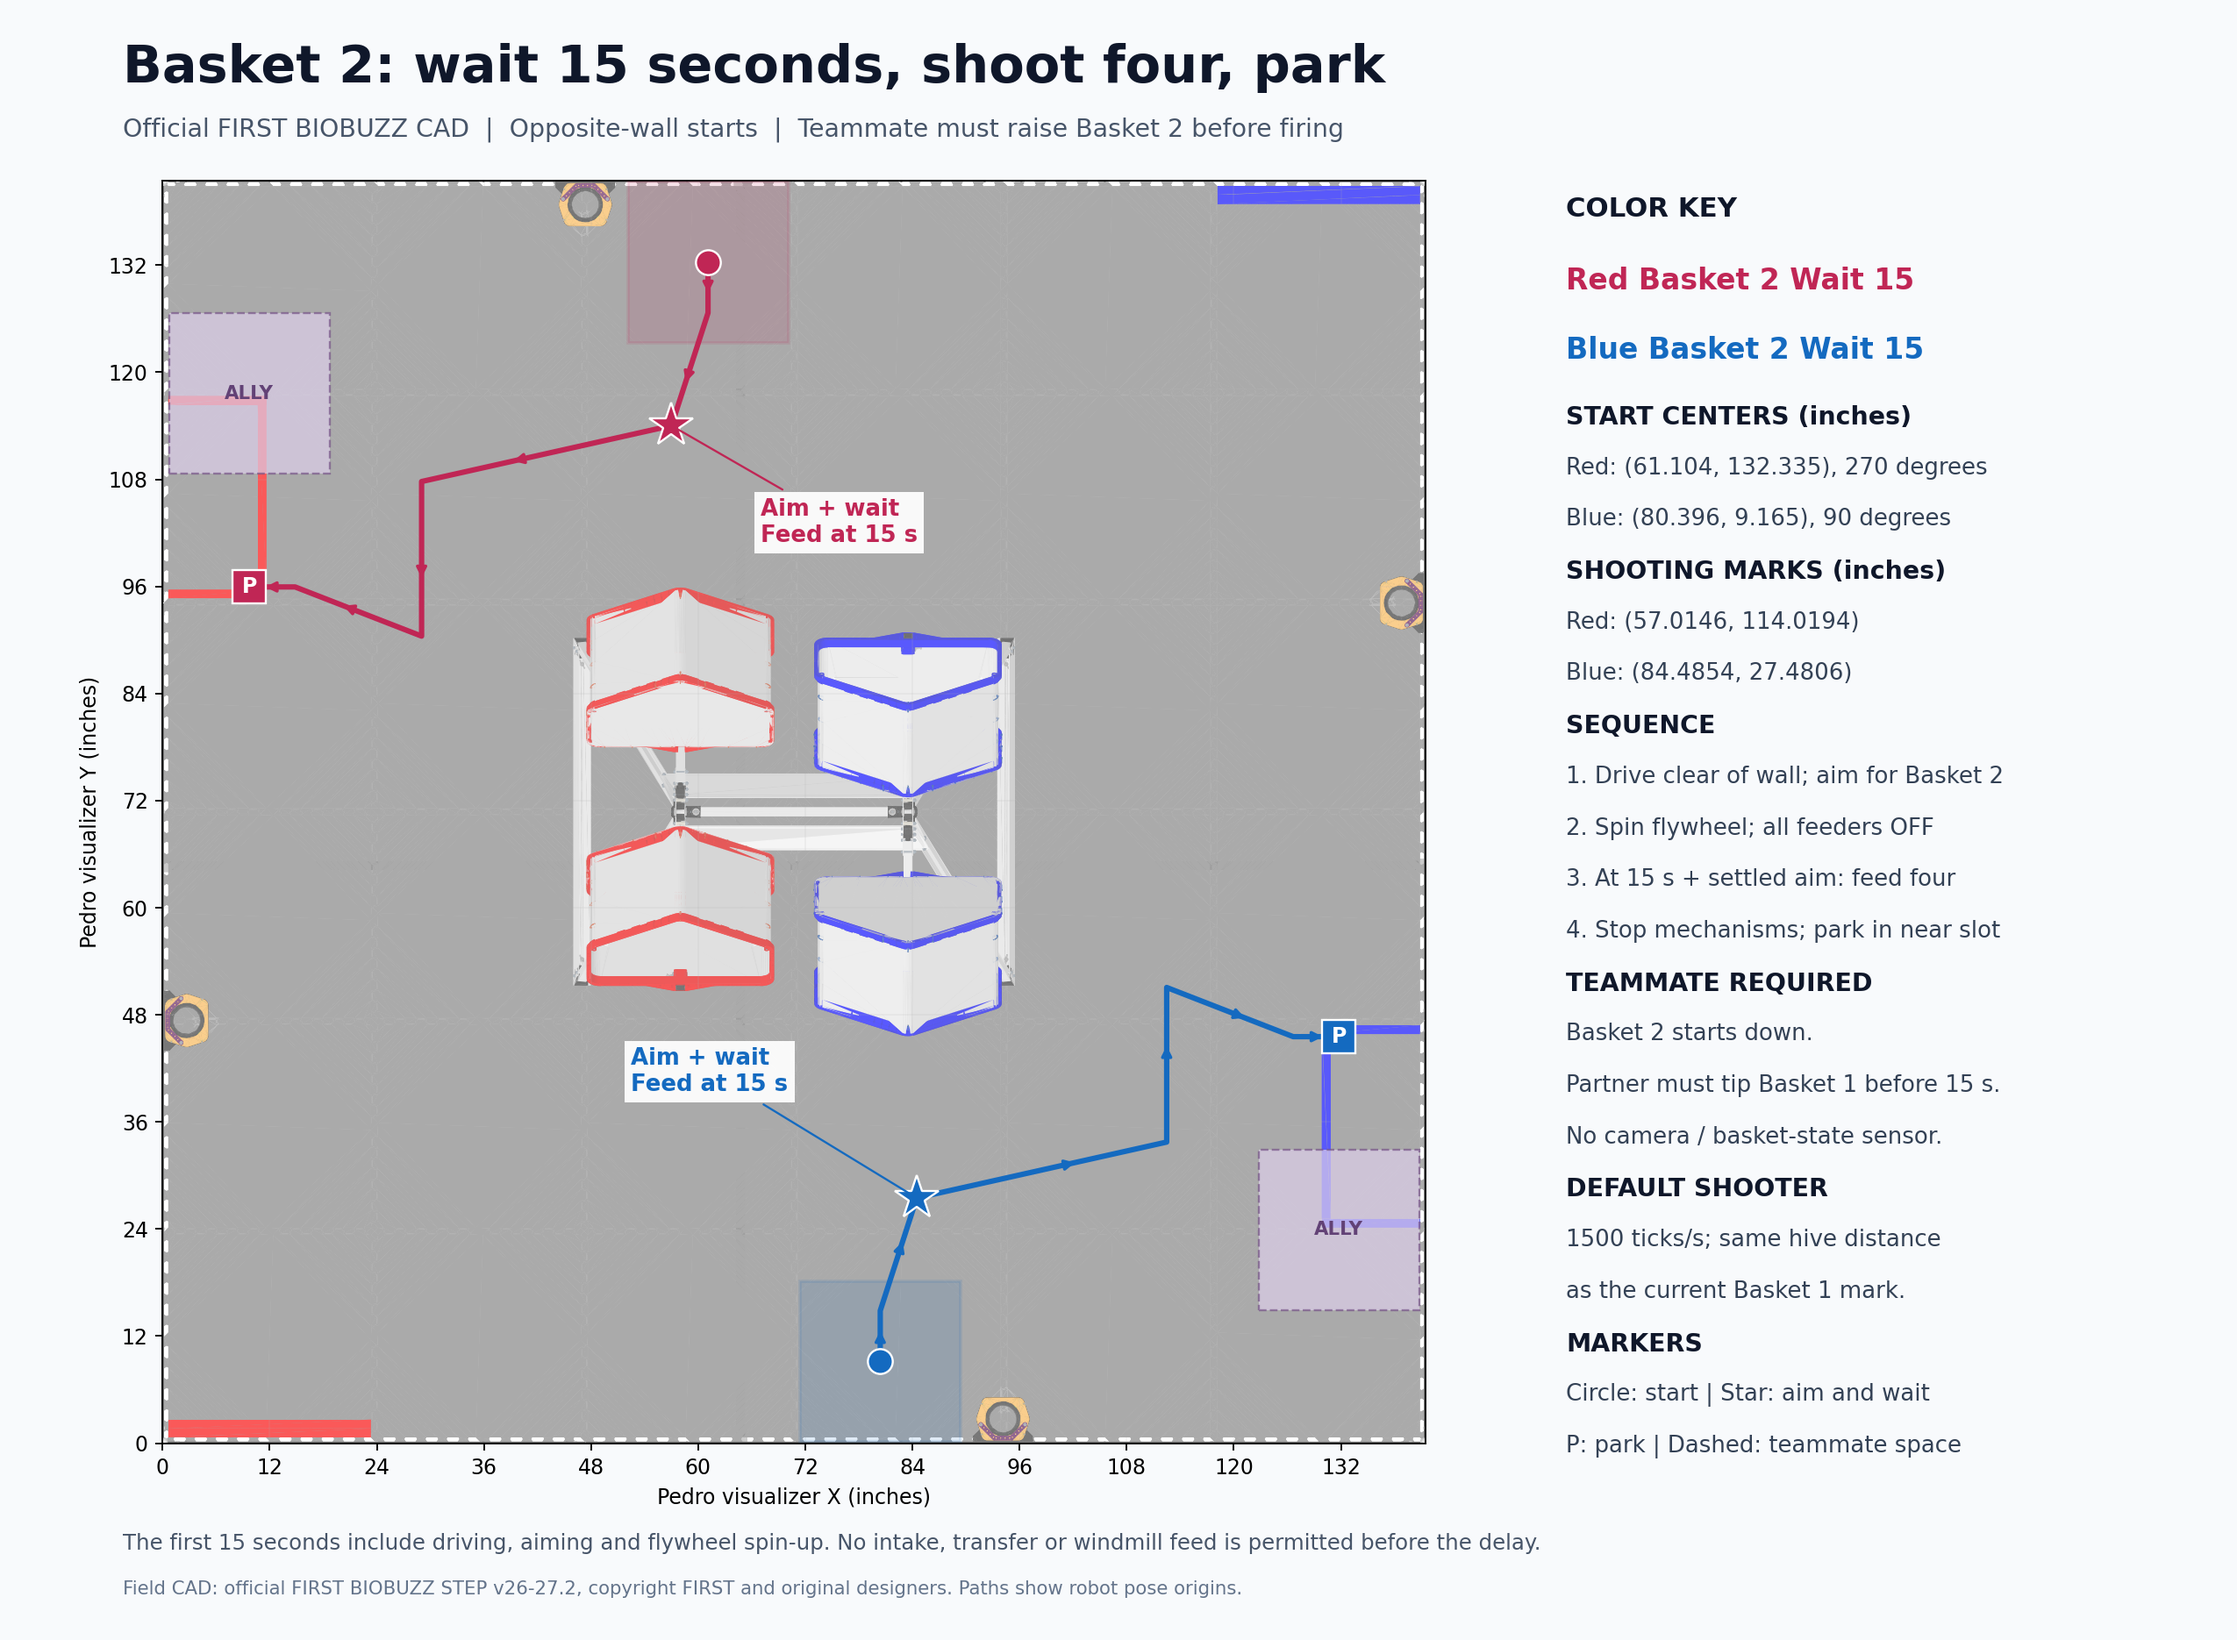
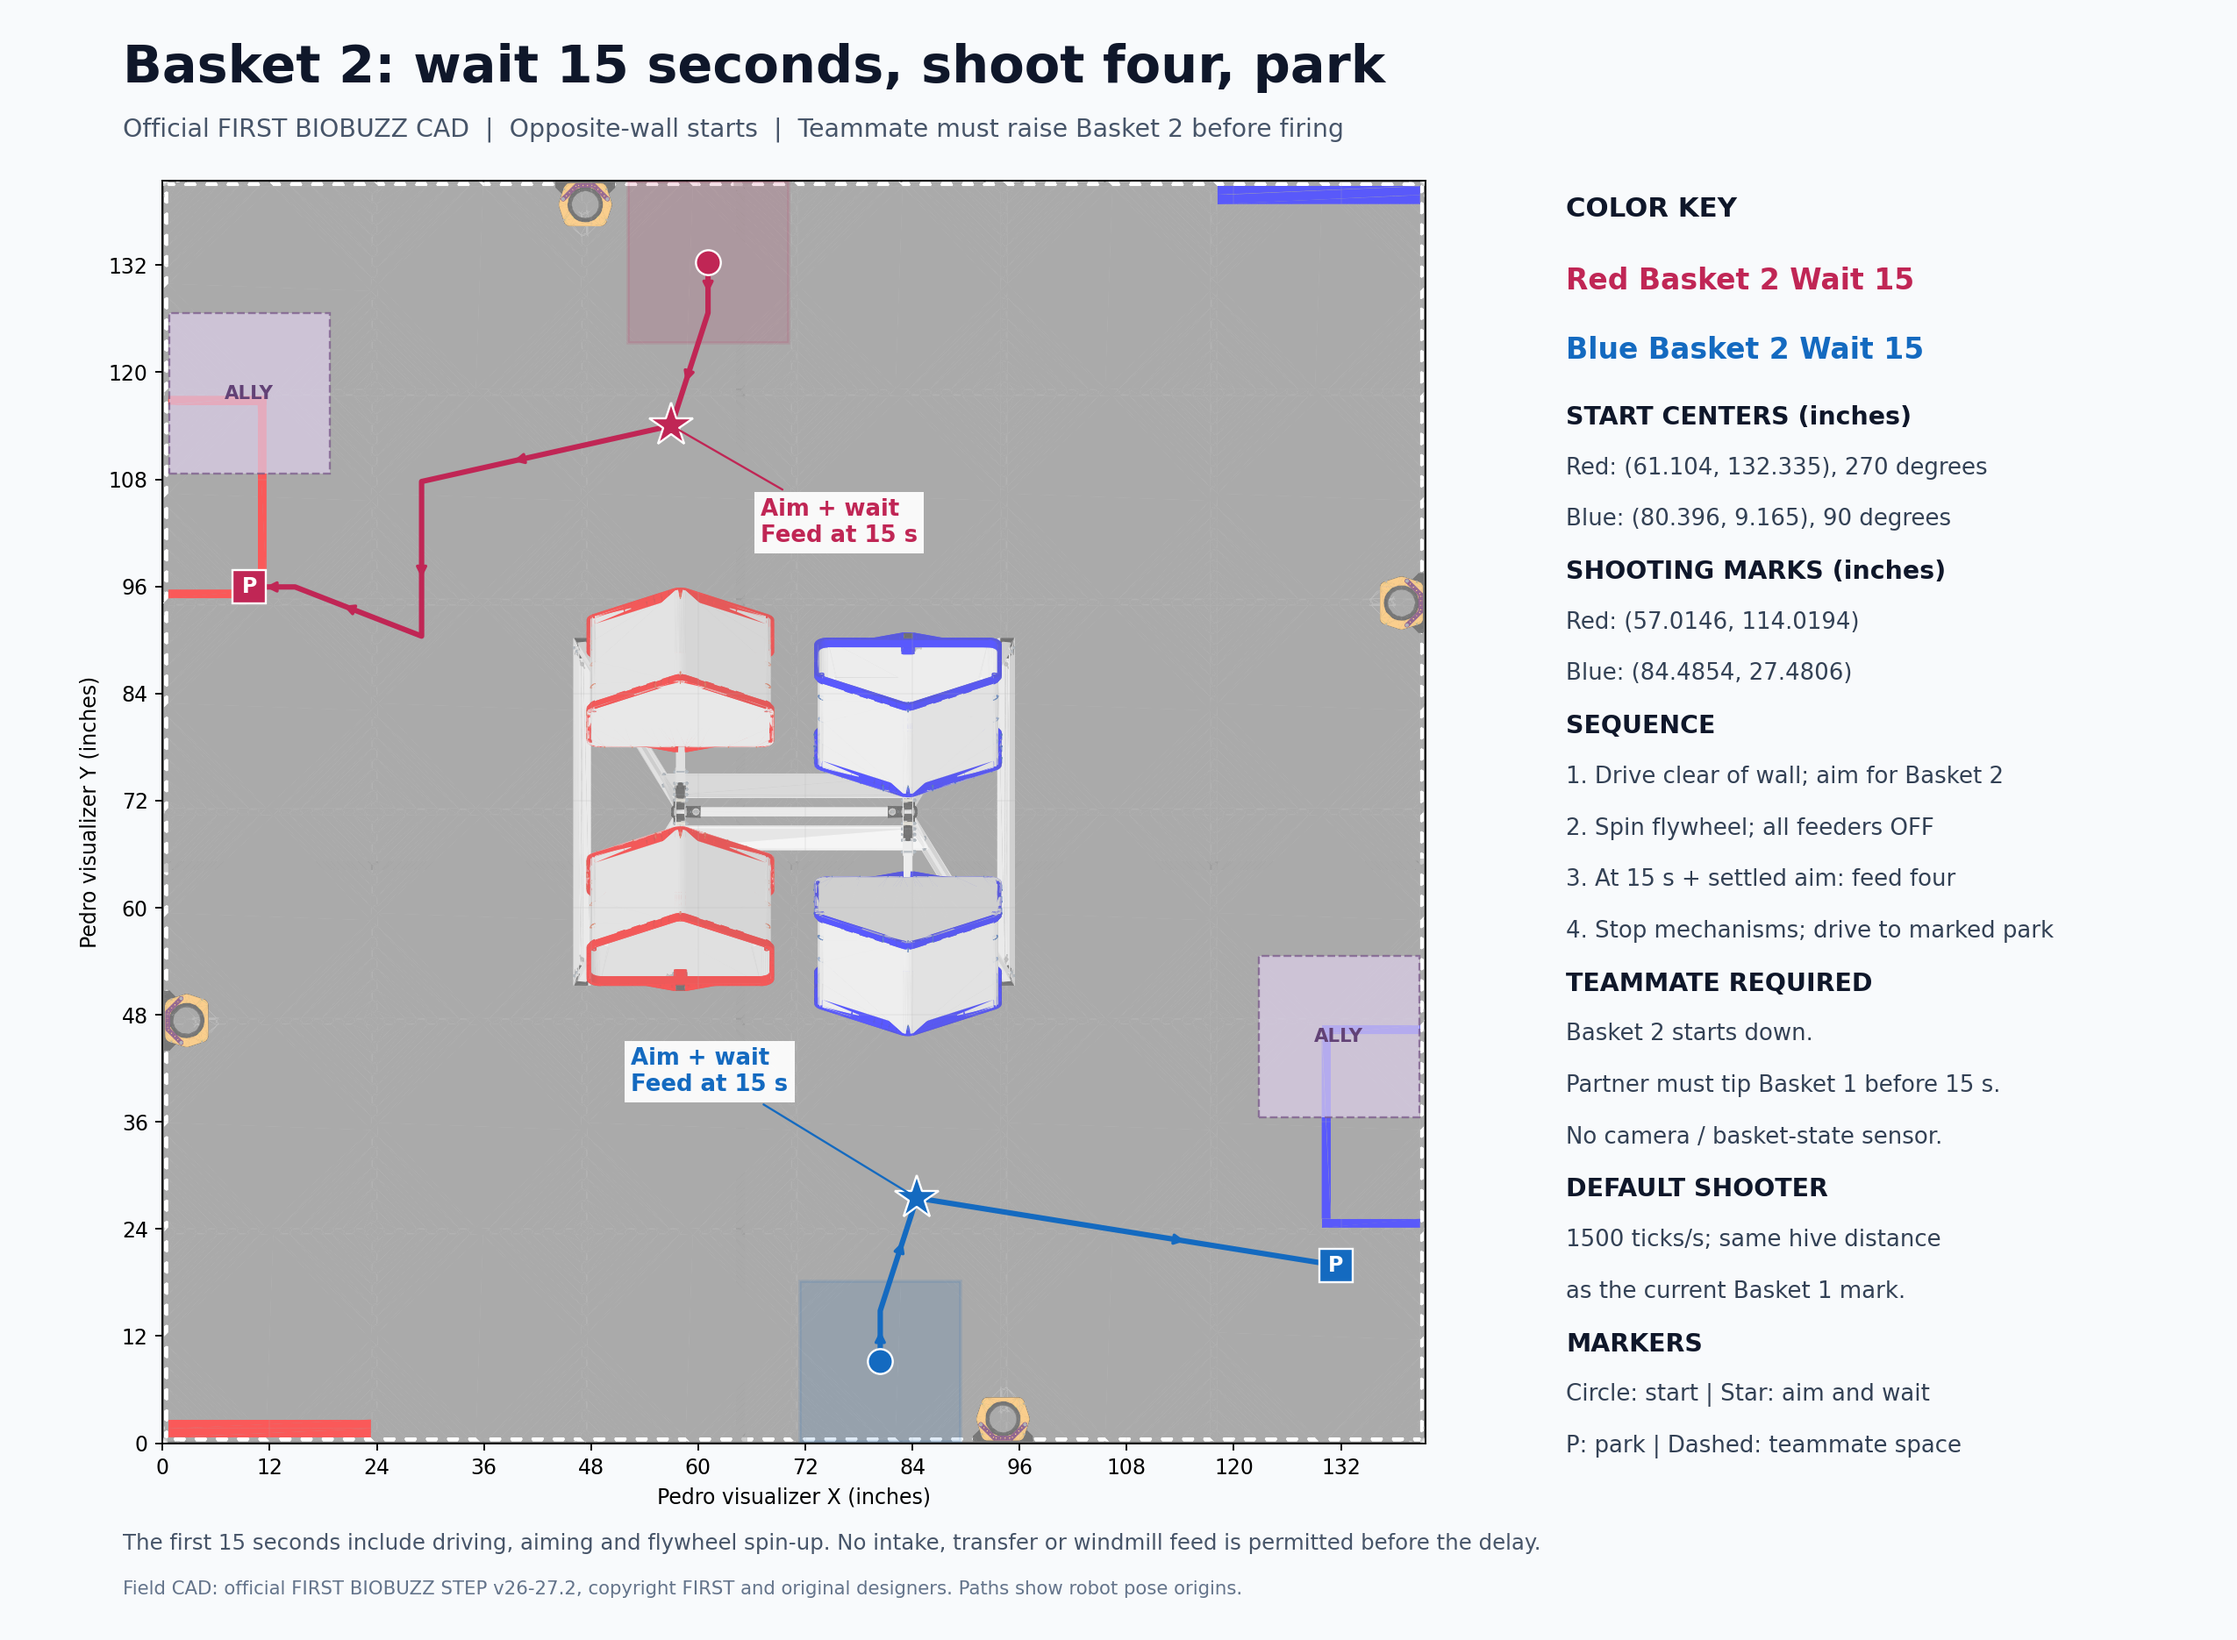
Drive Blue delayed auton straight to requested parking mark

diff --git a/tools/auton/render-basket-two-map.py b/tools/auton/render-basket-two-map.py
@@ -64,7 +64,7 @@ for name,color in [('RedBasket2Wait15Shoot4Park','#c02655'),('BlueBasket2Wait15S
     tx,ty=(shot[1]+10,shot[2]-13) if name.startswith('Red') else (shot[1]-32,shot[2]+12)
     ax.annotate('Aim + wait\nFeed at 15 s',xy=(shot[1],shot[2]),xytext=(tx,ty),fontsize=11,color=color,weight='bold',
         bbox=dict(fc='white',ec='none',alpha=.94,pad=3),arrowprops=dict(arrowstyle='-',color=color),zorder=11)
-for x,y in [(-1.55,1.19),(1.55,-1.19)]:
+for x,y in [(-1.55,1.19),(1.55,-.64)]:
     x=x/.0254+70.75;y=y/.0254+70.75
     ax.add_patch(Rectangle((x-9,y-9),18,18,fc='#dccfe9',ec='#775588',ls='--',alpha=.7,zorder=4))
     ax.text(x,y,'ALLY',ha='center',va='center',fontsize=9,color='#624276',weight='bold',zorder=9)
@@ -77,7 +77,7 @@ for name in starts:
 lines.append(('SHOOTING MARKS (inches)',12,'#0f172a'))
 for name in shots:
     _,x,y,h=shots[name];lines.append((f'{"Red" if name.startswith("Red") else "Blue"}: ({x:.4f}, {y:.4f})',11,'#334155'))
-lines += [('SEQUENCE',12,'#0f172a'),('1. Drive clear of wall; aim for Basket 2',11,'#334155'),('2. Spin flywheel; all feeders OFF',11,'#334155'),('3. At 15 s + settled aim: feed four',11,'#334155'),('4. Stop mechanisms; park in near slot',11,'#334155'),('TEAMMATE REQUIRED',12,'#0f172a'),('Basket 2 starts down.',11,'#334155'),('Partner must tip Basket 1 before 15 s.',11,'#334155'),('No camera / basket-state sensor.',11,'#334155'),('DEFAULT SHOOTER',12,'#0f172a'),('1500 ticks/s; same hive distance',11,'#334155'),('as the current Basket 1 mark.',11,'#334155'),('MARKERS',12,'#0f172a'),('Circle: start | Star: aim and wait',11,'#334155'),('P: park | Dashed: teammate space',11,'#334155')]
+lines += [('SEQUENCE',12,'#0f172a'),('1. Drive clear of wall; aim for Basket 2',11,'#334155'),('2. Spin flywheel; all feeders OFF',11,'#334155'),('3. At 15 s + settled aim: feed four',11,'#334155'),('4. Stop mechanisms; drive to marked park',11,'#334155'),('TEAMMATE REQUIRED',12,'#0f172a'),('Basket 2 starts down.',11,'#334155'),('Partner must tip Basket 1 before 15 s.',11,'#334155'),('No camera / basket-state sensor.',11,'#334155'),('DEFAULT SHOOTER',12,'#0f172a'),('1500 ticks/s; same hive distance',11,'#334155'),('as the current Basket 1 mark.',11,'#334155'),('MARKERS',12,'#0f172a'),('Circle: start | Star: aim and wait',11,'#334155'),('P: park | Dashed: teammate space',11,'#334155')]
 y=1
 for text,size,color in lines:
     key.text(0,y,text,fontsize=size,color=color,weight='bold' if size>=12 else 'normal',va='top',transform=key.transAxes)

diff --git a/tools/auton/DelayedBasketTwoChecks.java b/tools/auton/DelayedBasketTwoChecks.java
@@ -15,7 +15,7 @@ public final class DelayedBasketTwoChecks {
                 double h=from.heading()+turn*u,half=.2286*(Math.abs(Math.cos(h))+Math.abs(Math.sin(h)));
                 check(Math.abs(x)+half<=1.792859+1e-6&&Math.abs(y)+half<=1.792859+1e-6,"wall footprint");
                 check(FrameClearance.clear(x,y),"metal frame keepout");
-                check(Math.abs(x+1.55*sign)>half+.2286||Math.abs(y-1.19*sign)>half+.2286,"reserved teammate footprint");
+                check(Math.abs(x+1.55*sign)>half+.2286||Math.abs(y-(blue?.64*sign:1.19*sign))>half+.2286,"reserved teammate footprint");
                 for(double[] pot:new double[][]{{-.5942,1.7283},{1.7283,.5942},{.5942,-1.7283},{-1.7283,-.5942}}){
                     double dx=pot[0]-x,dy=pot[1]-y,c=Math.cos(h),s=Math.sin(h);
                     double a=Math.max(0,Math.abs(dx*c+dy*s)-.2286),b=Math.max(0,Math.abs(-dx*s+dy*c)-.2286);
@@ -31,8 +31,10 @@ public final class DelayedBasketTwoChecks {
         check(DelayedBasketTwoRoute.readyToFeed(15,.25),"feed opens at fifteen seconds with settled aim");
         check(!DelayedBasketTwoRoute.readyToFeed(Double.NaN,1),"invalid time never feeds");
         DelayedBasketTwoRoute red=new DelayedBasketTwoRoute(false),blue=new DelayedBasketTwoRoute(true);
-        for(Pose[] pair:new Pose[][]{{red.initial,blue.initial},{red.shot,blue.shot},{red.park,blue.park}})
+        for(Pose[] pair:new Pose[][]{{red.initial,blue.initial},{red.shot,blue.shot}})
             check(Math.hypot(pair[0].x()+pair[1].x(),pair[0].y()+pair[1].y())<1e-8,"180 degree coordinate mirror");
+        check(Math.abs(blue.park.x()+70.75-131.44)<1e-9&&Math.abs(blue.park.y()+70.75-19.94)<1e-9,"requested Blue park coordinates");
+        check(blue.parkingPath(blue.shot).size()==1,"Blue drives straight from shooting to park");
         for(DelayedBasketTwoRoute route:new DelayedBasketTwoRoute[]{red,blue}){
             double sign=route.blue?-1:1;
             Pose near=new CycleRoute(route.blue?CycleRoute.Start.BLUE_WEST:CycleRoute.Start.RED_EAST,

diff --git a/TeamCode/src/main/java/org/firstinspires/ftc/teamcode/Auton/cycles/DelayedBasketTwoRoute.java b/TeamCode/src/main/java/org/firstinspires/ftc/teamcode/Auton/cycles/DelayedBasketTwoRoute.java
@@ -20,7 +20,8 @@ public final class DelayedBasketTwoRoute {
             CycleRoute.Lineup.FOUR_PARK).stages.get(1).pose();
         double heading=2*Math.PI-near.heading()+(blue?Math.PI:0);
         shot=new Pose(sign*near.x(),-sign*near.y(),Math.atan2(Math.sin(heading),Math.cos(heading)));
-        park=pose(-1.55,CycleRoute.OUR_PARK_Y_METERS,270);
+        park=blue ? new Pose(131.44-70.75,19.94-70.75,Math.PI/2)
+            : pose(-1.55,CycleRoute.OUR_PARK_Y_METERS,270);
     }
     private Pose pose(double x,double y,double degrees){
         double heading=Math.toRadians(degrees+(blue?180:0));
@@ -35,6 +36,13 @@ public final class DelayedBasketTwoRoute {
     }
     public List<Pose> parkingPath(Pose from){
         List<Pose> result=new ArrayList<>();
+        if(blue){
+            // Preserve the clear approach corridor for an early abort; after shooting drive straight to park.
+            if(Math.hypot(from.x()-shot.x(),from.y()-shot.y())>1e-6)
+                result.addAll(FrameClearance.path(from,shot,true));
+            result.add(park);
+            return result;
+        }
         Pose upper=pose(-1.06,.94,Math.toDegrees(shot.heading())-(blue?180:0));
         Pose lower=new Pose(upper.x(),sign*.50/.0254,shot.heading());
         result.addAll(FrameClearance.path(from,upper,blue));

diff --git a/tools/auton/export-pedro-projects.py b/tools/auton/export-pedro-projects.py
@@ -29,7 +29,7 @@ for name, rows in routes.items():
     for index, (x, y) in enumerate([(-.5942,1.7283),(1.7283,.5942),(.5942,-1.7283),(-1.7283,-.5942)]):
         shape(f'Fixed flower pot {index+1}', [(x+.08*math.cos(a*math.pi/8), y+.08*math.sin(a*math.pi/8)) for a in range(16)], '#b87913')
     sign = -1 if name.startswith('Blue') else 1
-    x, y = -1.55*sign, 1.19*sign
+    x, y = -1.55*sign, (.64 if name == "BlueBasket2Wait15Shoot4Park" else 1.19)*sign
     shape('Reserved teammate space', [(x-.2286,y-.2286),(x+.2286,y-.2286),(x+.2286,y+.2286),(x-.2286,y+.2286)], '#8959a8')
     doc = dict(version='2.0.0', startPoint=dict(x=rows[0][1], y=rows[0][2], headingDeg=rows[0][3]), lines=lines,
         sequence=sequence, shapes=shapes, fieldPoints=[], activePaths=[], robot=dict(

diff --git a/docs/BASKET-TWO-WAIT15.md b/docs/BASKET-TWO-WAIT15.md
@@ -35,6 +35,8 @@ Shooter has one additive method, `updateSpinupOnly()`. It uses the existing PIDF
 
 ## Verification
 
+The revised Blue direct-parking route with the requested 1-inch tolerance passed the actual-code simulator: first feed **15.0107 s**, four shots / four entries, parked **27.7528 s**, all mechanisms off. See [updated results](validation/blue-direct-park-results.json) and [trace](validation/blue-direct-park-traces.csv).
+
 The repeatable live runner executed the actual production Java autonomous, Shooter, Intake and tuned Pedro follower with simulator motors, drivetrain, ball flight, feeder travel and damped hive swing. Its test-only teammate fixture delivered three reserved partner preloads into Basket 1 around four seconds, letting the normal plant tip and settle the hive. It does not inject our robot's pose, inventory or releases. Fixture deliveries are excluded from our shot/hit counts. This tests the agreed teammate-success scenario, not the teammate's robot path or the guarantee that a real teammate will tip on time.
 
 | Routine | First feed command | Four shots / entries | Parked, autonomous clock |
@@ -46,12 +48,14 @@ Both parked with all drive/intake/windmill outputs stopped, no pollen still held
 
 Additional checks passed:
 
-- 636,065 assertions for the 15-second gate, settle requirement, mirrored starts, equal shooting distance, swept wall/frame/flower-pot/teammate clearance and fallback parking.
+- 506,622 assertions for the 15-second gate, settle requirement, mirrored starts, equal shooting distance, swept wall/frame/flower-pot/teammate clearance and fallback parking.
 - 25 Shooter checks covering all three intake outputs staying off during spin-up, continued flywheel power, normal `update()` feeding and shutdown.
-- The upstream Pedro Visualizer collision/timeline engine reports zero collision intervals on both exported eight-segment routes at 0.20-inch / 1-degree sampling. An invalid frame-crossing negative control is rejected.
+- The upstream Pedro Visualizer collision/timeline engine reports zero collision intervals on the exported eight-segment Red and five-segment Blue routes at 0.20-inch / 1-degree sampling. An invalid frame-crossing negative control is rejected.
 - FTC Android `:TeamCode:assembleDebug` succeeds.
 
 These are simulator and build results. Physical feeding, tracking, launch accuracy and teammate timing still require a field trial; no real-world success guarantee is implied.
+
+The table above records the original parking route. The revised Blue direct route and 1-inch position tolerance are verified separately in `validation/blue-direct-park-results.json`.
 
 ## Reproduce and view paths
 

diff --git a/docs/POLLEN-AUTONOMOUS.md b/docs/POLLEN-AUTONOMOUS.md
@@ -45,7 +45,7 @@ Legacy unregistered autonomous helpers remain in the repository; the eight menu 
 
 ## Teammate parking
 
-All eight active autons park in the near alliance slot rather than the middle of the loading area. A farther slot is reserved for a teammate. See the lineup map and coordinate table. Slot centers are 0.55 m apart, leaving 0.0928 m (3.65 inches) between two 18-inch footprints. Both shooting families now use the mark one inch farther from the hive; shooter speed is unchanged. This reserves physical space; coordinate the other robot's route and parking eligibility with the alliance.
+Blue Basket 2 Wait 15 parks directly at visualizer (131.44, 19.94), reserving the nearer slot (131.77, 45.55) for its teammate. The other seven active autons use the near alliance slot and reserve the farther slot for a teammate. See the lineup map and coordinate table. Slot centers are 0.55 m apart, leaving 0.0928 m (3.65 inches) between two 18-inch footprints. Both shooting families now use the mark one inch farther from the hive; shooter speed is unchanged. This reserves physical space; coordinate the other robot's route and parking eligibility with the alliance.
 
 ## Verification scope
 

diff --git a/docs/AUTONOMOUS-LINEUP.md b/docs/AUTONOMOUS-LINEUP.md
@@ -28,7 +28,7 @@ Coordinates refer to the robot's pose origin at the field center convention. Pos
 
 ## Parking with a teammate
 
-All four autonomous choices for an alliance use **our near slot**, leaving the farther slot available for a teammate. Positions below use Pedro visualizer inches. Blue mirrors Red by a 180-degree rotation about field center.
+The existing routines and Red delayed routine use **our near slot**, leaving the farther slot available for a teammate. Blue Basket 2 Wait 15 instead parks at **(131.44, 19.94)** and leaves its near slot **(131.77, 45.55)** for the teammate. Positions below use Pedro visualizer inches. Blue mirrors Red by a 180-degree rotation about field center.
 
 | Alliance | Our robot parks (X, Y) | Reserved teammate center (X, Y) | Heading |
 | --- | --- | --- | --- |
